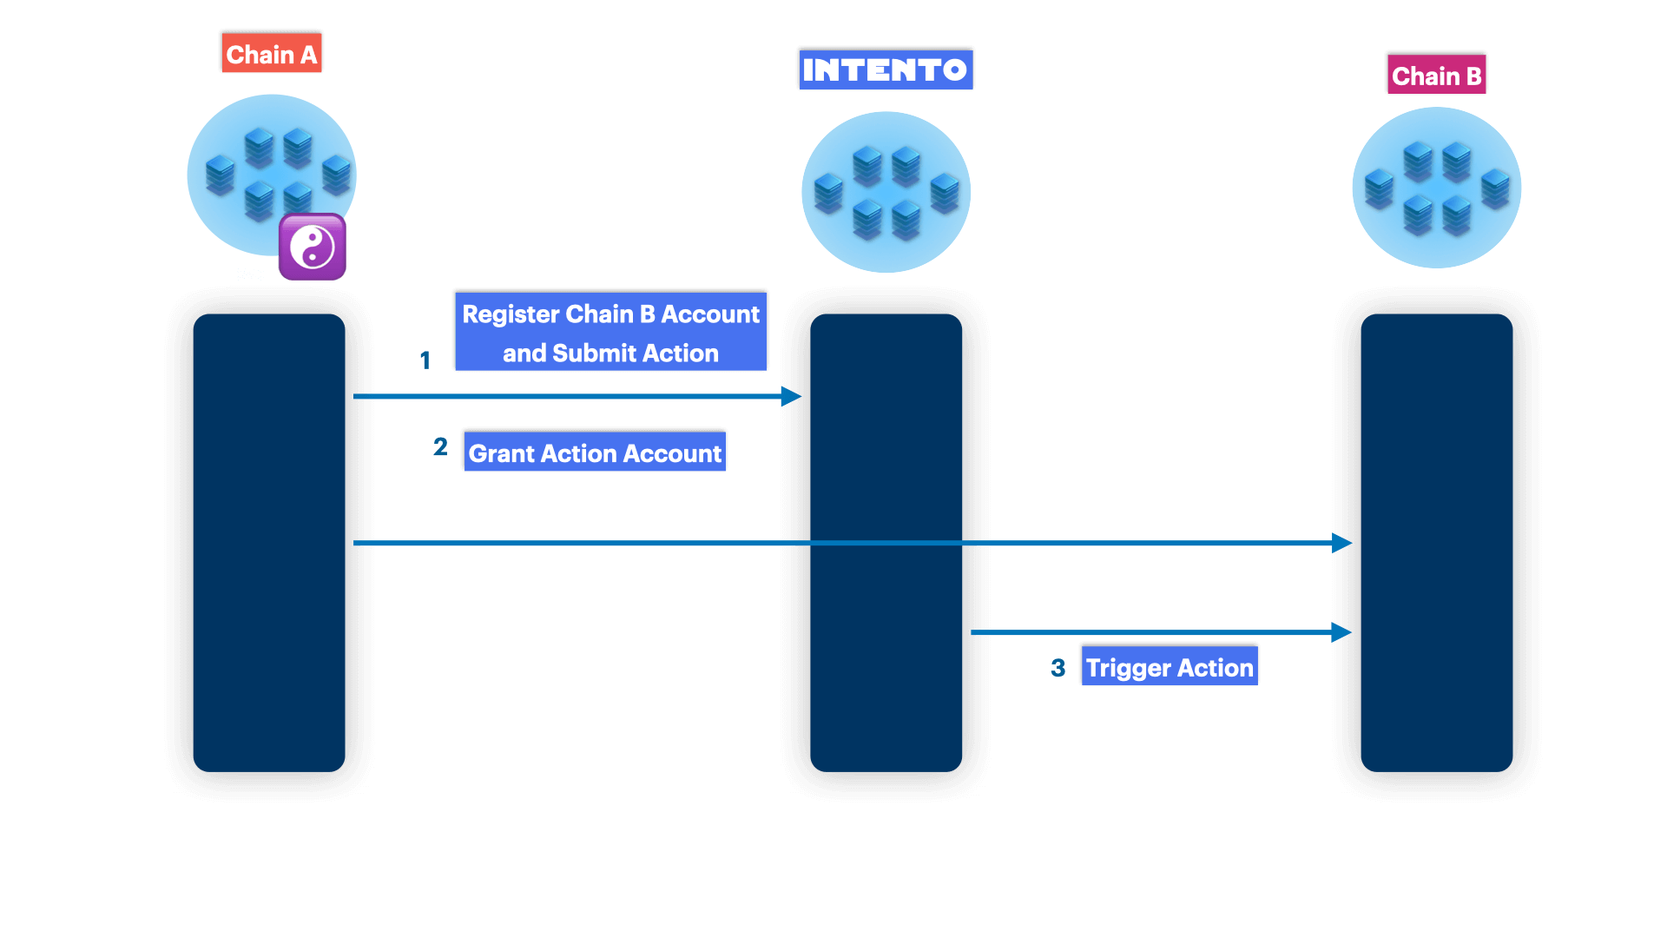
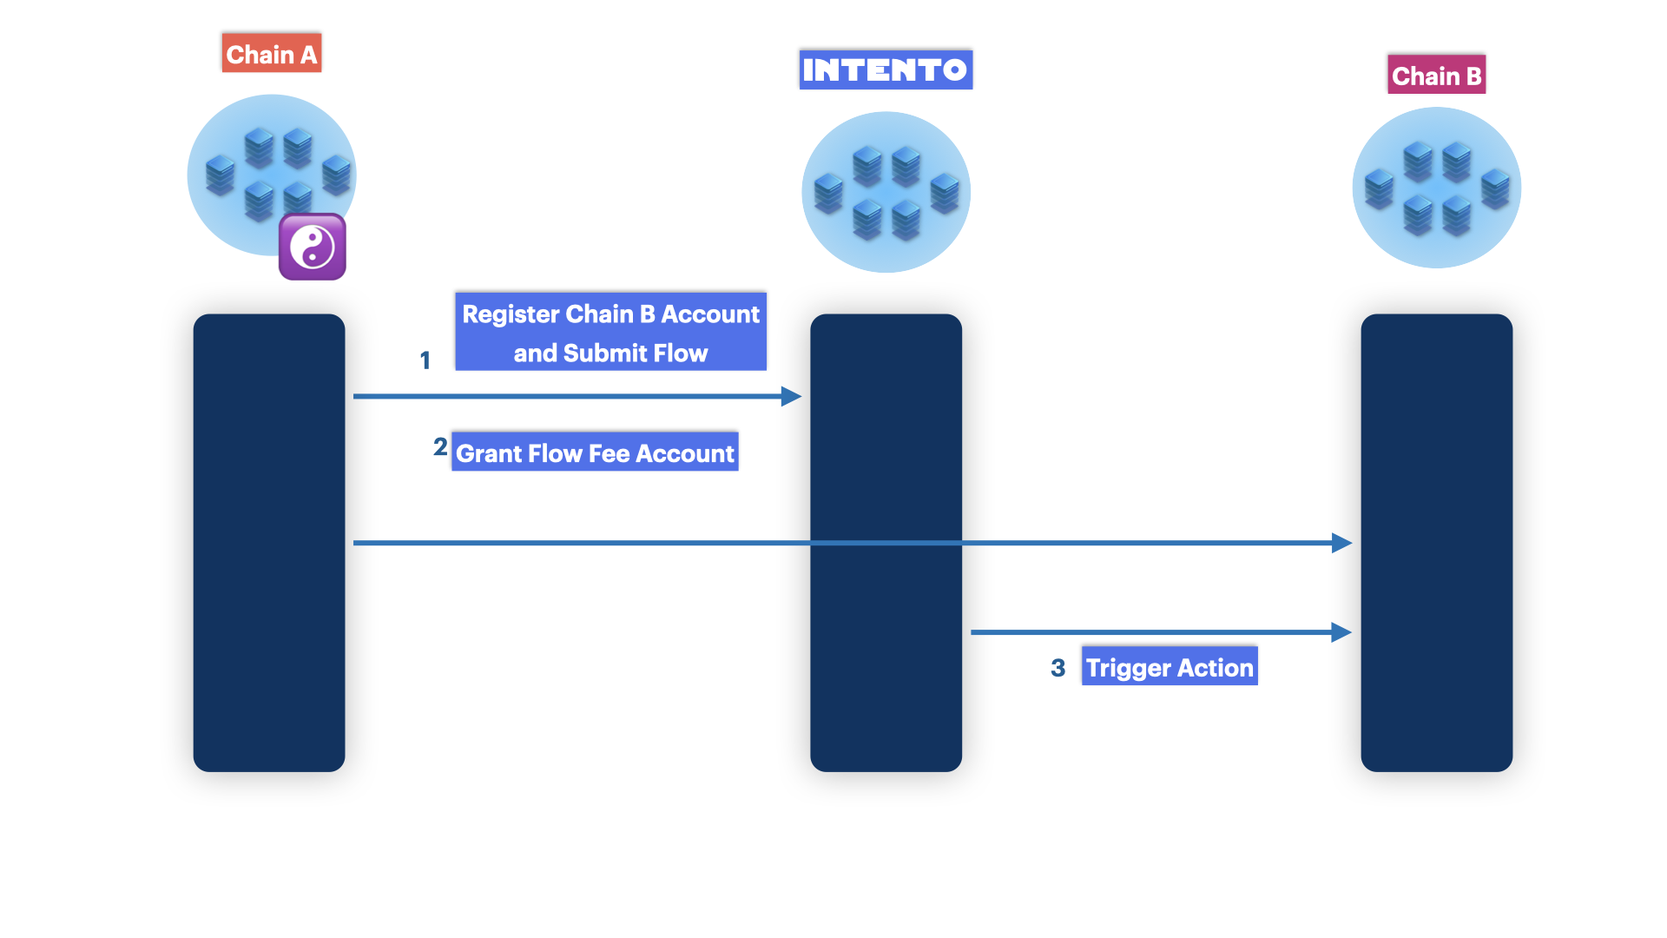
docs: update docs

diff --git a/docs/docs/using-flows/from-connected-chain.md b/docs/docs/using-flows/from-connected-chain.md
@@ -25,7 +25,7 @@ This is useful for DAOs and other decentralized organizations on any connected c
 
 ## For DAOs
 
-Setting up an flow on a connected chain can be particularly useful for DAOs. Using this middleware, DAOs can now automate tasks not only on their chain but also on any chain connected to Intento. What can DAO's do with this? DAOs can automate periodic token swaps, payroll, payment in installments amongst other scheduled flows. These flows can be performed in one proposal, which normally require periodically voting on individual proposals. This normally requires manual flow from the proposer and DAO participants.
+Setting up an flow on a connected chain can be particularly useful for DAOs. Using this middleware, DAOs can now automate tasks not only on their chain but also on any chain connected to Intento. What can DAO's do with this? DAOs can orchestrate periodic token swaps, payroll, payment in installments amongst other scheduled flows. These flows can be performed in one proposal, which normally require periodically voting on individual proposals. This normally requires manual flow from the proposer and DAO participants.
 
 ## ICS20 Middleware
 
@@ -110,66 +110,74 @@ An ICS20 packet is formatted correctly for submitting an flow if the following a
 - `memo["flow"]["cid"]`is a valid connection ID on INTO -> Destination chain, omit it for local INTO execution of the message.
 - `memo["flow"]["register_ica"]` can be added, and true to register an ICA.
 
-Fees are paid with a newly generated and flow specific fee account.
+Fees are paid with a newly generated flow fee account.
 
 If an ICS20 packet does not contain a memo containing "flow", a regular MsgTransfer takes place.
 If an ICS20 packet is directed towards flow, and is formated incorrectly, then it returns an error.
+Here’s an improved version of the example with clearer language, structure, and formatting:
+
+---
 
 ## Example: DAO Integration
 
-![icsdao](@site/docs/images/connected_chain/from_connected_chain_flow1.png)
+![ICS DAO](@site/docs/images/connected_chain/from_connected_chain_flow1.png)
 
-Using ICS20 to set up flows is for advanced users that are familiar with terms such as ICS20 transfers and Authz permissions.
+### Overview
 
-Our ICS20 middleware is developped to allow DAOs to perform time-based flows. These can be executed locally on Intento, a destination chain which can also be the source chain.
+Using ICS20 to set up Intent-based flows is for users familiar with ICS20 transfers and Authz permissions. Our ICS20 middleware is designed to allow DAOs to submit flows, which can be done locally on Intento or on a destination chain. This can also be the source chain.
 
-There are several caveats to using ICS20 to set up an flow. When automating on a destination chain for the first time, not one but two flows is required to activate the trigger. One flow is to set the flow and create an Interchain Account at Intento and another is to set permissions/send funds to the Interchain Account on the destination chain.
+There are several caveats when setting up flows with ICS20. When automating on a destination chain for the first time, **two messages** are required to activate the flow. One flow sets up the flow and creates an Interchain Account on Intento, while the other sets permissions and sends funds to the Interchain Account on the destination chain.
 
-To demonstrate how DAOs can integrate with Intento we explain the process using an example.
+In this example, we will demonstrate how a DAO can integrate with Intento by automating the payment process to a service provider.
 
-`DAO` wants to pay `Service provider ABC` for their services that they provide on a monthly basis in `TOKEN1` and holds `TOKEN2` and `NTRN`.
+### Scenario: DAO Payment to Service Provider
 
-_Service provider ABC invoice example_
-![DAODAO](@site/docs/images/ics20/daodao_proposal1.png)
+The `DAO` wishes to pay `Service Provider ABC` monthly for their services in `TOKEN1`. The DAO holds `TOKEN2` and `NTRN`.
 
-In this example a `DAO` on DAODAO triggers a swap of TOKEN2 for TOKEN1 on dex "DEX" on a recurring basis.
-Then it can automatically send these tokens to `Service provider ABC`.
-This is a neat use case for Intento as it requires movement from assets between chains and accounts. The tokens to send can remain in control of the DAO.
-As flow triggers are on-chain, the process can be done completely without trusted third parties.
+_Service Provider ABC invoice example_
 
-The DAO can appoint an owner that can manage the flow or use a placeholder account on Intento to remain in full control.
+![DAODAO](@site/docs/images/connected_chain/daodao_proposal1.png)
 
-For this invoice example we have the following proposal name and description:
+In this case, the DAO triggers a recurring swap of `TOKEN2` for `TOKEN1` on the decentralized exchange "DEX" and automatically sends the tokens to `Service Provider ABC`. 
 
-_Example Proposal name_
+This setup is an ideal use case for Intento, as it involves asset movement between chains and accounts, while the DAO maintains control of the tokens. Since the flows are on-chain, the process is fully decentralized and does not require third-party trust.
 
-```md
-[Trigger] Pay service provider ABC in TOKEN1
-```
+The DAO can appoint an owner to manage the flow or use a placeholder account on Intento to remain in full control.
 
-#### Example Description
+### Proposal Details
+
+In this example, the DAO submits a proposal with the following name and description:
+
+**Proposal Name**:
 
 ```md
-Submit an flow to send TOKEN1 to "service provider ABC"
-
-This will swap on a recurring basis TOKEN2 for TOKEN1 on dex "DEX" on Destination Chain and send these tokens to "service provider ABC"
-This will swap TOKEN1 for TOKEN2 on a recurring basis so that:
-
-- the selling pressure on TOKEN2 is gradual
-- we maintain a positive cash flow
-
-This Trigger on Intento allows us to automate asset workflows. It allows our DAO to maintain positive cashflow and have better liquidity.
+[Trigger] Pay Service Provider ABC in TOKEN1
 ```
 
-Having adequate liquidity is crucial to ensure smooth operations and financial stability. It enables you to fulfill your financial obligations to suppliers, lenders, and other stakeholders, which strengthens your credibility and reputation in the marketplace. With sufficient liquidity, you can easily pay for bills and expenses, invest in growth opportunities, and effectively manage your DAO's resources. Thus, prioritizing and managing liquidity effectively can help you achieve long-term success and sustainable growth.
+**Proposal Description**:
 
-### 1. Submitting Flow
+```md
+Submit a flow to send TOKEN1 to "Service Provider ABC."
 
-![icsdao](@site/docs/images/connected_chain/from_connected_chain_flow2.png)
+This flow will swap TOKEN2 for TOKEN1 on DEX "DEX" on the Destination Chain and automatically send these tokens to "Service Provider ABC." By performing this swap on a recurring basis, we achieve:
 
-Submit a proposal with a custom message to execute. For a CosmWasm-based DAO like [DAO DAO](https://daodao.zone/) DAOs on Neutron, This message contains the ICS20 message`MsgTransfer`. In the `memo` you provide the `Flow` details such as the messages to automate, time parameters and set a custom label.
+- Gradual selling pressure on TOKEN2
+- Maintaining positive cash flow
 
-Below is how the proposal flow message could look like for a CosmWasm-based DAO:
+This trigger on Intento automates asset workflows, ensuring liquidity and financial stability for the DAO.
+```
+
+Having sufficient liquidity ensures smooth operations and financial stability, allowing the DAO to meet its obligations and grow sustainably. Proper liquidity management helps to pay expenses, invest in growth, and strengthen the DAO's reputation in the market.
+
+---
+
+### 1. Submitting the Flow
+
+![ICS DAO Flow Submission](@site/docs/images/connected_chain/from_connected_chain_flow2.png)
+
+To submit the flow, the DAO creates a proposal with a custom message to execute. For a CosmWasm-based DAO like [DAO DAO](https://daodao.zone/) on Neutron, this message contains the ICS20 `MsgTransfer`. In the `memo`, the DAO provides flow details such as automated messages, time parameters, and a custom label.
+
+Here’s an example of how the flow proposal message might look for a CosmWasm-based DAO:
 
 ```json
 [
@@ -179,41 +187,24 @@ Below is how the proposal flow message could look like for a CosmWasm-based DAO:
       "value": {
         "source_port": "transfer",
         "source_channel": "channel-to-intento",
-        //token should be IBC-denominated INTO, which is used to pay for fees
         "token": { "denom": "ibc/....", "amount": "10" },
-        // sender - a bech32 address on source chain
         "sender": "neutron1validbech32address",
-        // the recipient address on Intento
-        // is replaced with a newly generated address when flow["owner"] in memo is blank
         "receiver": "into1address",
-        // Timeout height relative to the current block height.
-        // The timeout is disabled when set to 0.
         "timeout_height": "0",
-        // Timeout timestamp in absolute nanoseconds since unix epoch.
-        // The timeout is disabled when set to 0.
         "timeout_timestamp": "0",
         "memo": {
           "flow": {
-            //owner is optional and should equal recipient
             "owner": "into1address",
             "msgs": [
               {
                 "@type": "/someprefix.somemodule.someversion.sometype"
-                //add message values
-                //in JSON format
               }
             ],
-            //duration from now or from start_at. s=seconds, m=minutes, h=hours
             "duration": "111h",
-            //interval is optional. s=seconds, m=minutes, h=hours
             "interval": "11h",
-            //start_at is optional, in nanoseconds since UNIX epoch
             "start_at": "1677841601",
-            //label is optional
             "label": "my_label",
-            //connection_id is optional, omit or leave blank in case local Intento message.
             "cid": "connection-0",
-            //register_ica is optional, set to true to register interchain account
             "register_ica": "true"
           }
         }
@@ -223,11 +214,12 @@ Below is how the proposal flow message could look like for a CosmWasm-based DAO:
 ]
 ```
 
-Here it is important that the `timeout_timestamp` or `timeout_height` takes into account the proposal's end time. Alternatively both of the timeout values can be set to `0`.
+**Important Notes:**
 
-Further it is important that the field `register_ica` is set to `"true"` the first time you create an flow. This will register an Interchain Account from Intento on the destination chain.
-
-A message in the `flow["msgs"]` array can be like the following MsgSend:
+- Ensure that `timeout_timestamp` or `timeout_height` reflects the proposal's end time, or set both to `0` if no timeout is needed.
+- When creating the flow for the first time, make sure the `register_ica` field is set to `"true"`, which registers an Interchain Account on the destination chain.
+  
+A message within the `flow["msgs"]` array might look like this `MsgSend`:
 
 ```json
 {
@@ -243,7 +235,7 @@ A message in the `flow["msgs"]` array can be like the following MsgSend:
 }
 ```
 
-For the DAO service provider example, we can have a [SwapAndSendTo](https://github.com/Wasmswap/wasmswap-contracts/blob/main/src/msg.rs#:~:text=%7D%2C-,SwapAndSendTo,-%7B) in a [MsgExecuteContract](https://github.com/CosmWasm/wasmd/blob/main/proto/cosmwasm/wasm/v1/tx.proto) message to swap TOKEN2 for TOKEN1 locally on `Neutron`. We can specify the out recipient the recipient's address.
+Alternatively, the DAO can use a custom smart contract message like [SwapAndSendTo](https://github.com/Wasmswap/wasmswap-contracts/blob/main/src/msg.rs#:~:text=%7D%2C-,SwapAndSendTo,-%7B) in a [MsgExecuteContract](https://github.com/CosmWasm/wasmd/blob/main/proto/cosmwasm/wasm/v1/tx.proto) message to swap `TOKEN2` for `TOKEN1`.
 
 ```json
 {
@@ -263,98 +255,42 @@ For the DAO service provider example, we can have a [SwapAndSendTo](https://gith
       "funds": []
     }
   ],
-  "grantee": "ICA_ADDR" 
+  "grantee": "ICA_ADDR"
 }
 ```
 
-:::tip write `ICA_ADDR` as a `grantee` or any other field in the message and Intento will parse the to-be defined Interchain Account address. This is transformed when the first execution happens.
+:::tip 
+Write `ICA_ADDR` as a `grantee` or in other fields within the message, and Intento will parse the to-be-defined Interchain Account address.
 :::
 
-We can also perform [MsgSwapExactAmountOut](https://github.com/osmosis-labs/osmosis/blob/main/proto/osmosis/gamm/v1beta1/tx.proto#:~:text=message-,MsgSwapExactAmountOut,-%7B) to `Osmosis` or `Dymension` given that there are funds on the DAO's Intento-Osmosis Interchain Account on Osmosis. To send funds for execution, the DAO can make a proposal for `MsgTransfer` that funds the Intento Interchain Account. The DAO then controls an flow on Intento that controls the swap.
+You can also use [MsgSwapExactAmountOut](https://github.com/osmosis-labs/osmosis/blob/main/proto/osmosis/gamm/v1beta1/tx.proto#:~:text=message-,MsgSwapExactAmountOut,-%7B) to swap tokens on decentralized exchanges like Osmosis or Dymension.
+
+---
 
 ### 2. Setting Up Permissions and Funds
 
-![example2](@site/docs/images/connected_chain/from_connected_chain_flow3.png)
+![ICS DAO Permissions](@site/docs/images/connected_chain/from_connected_chain_flow3.png)
 
-<!-- ![proposal2](@site/docs/images/ics20/daodao_proposal2.png)
-*Proposal 2 can be the following and should contain the ICA_ADDR, which can found by querying the interchain account address.*  -->
+The Interchain Account (ICA) must be properly funded and authorized before it can execute the flow.
 
-The ICA_ADDR should also have some [funds to execute](#paying-for-fees) and have the proper [permissions](#setting-permissions) set up
+#### Paying for Fees
 
-:::tip write ICA_ADDR as a `sender` or any other field in an flow and Intento will parse the to-be defined Interchain Account address.
+Flow fees on Intento are automatically paid from the funds sent via ICS20. For flows executed on the destination chain, the `Flow Account` on the destination chain should be funded with the destination chain's fee token.
+
+If needed, a separate proposal can be submitted to send tokens (via `MsgSend` or `MsgTransfer`) to the destination chain's ICA address.
+
+:::tip
+If the source and destination chains are the same, you can set up a FeeGrant for the ICA on the destination chain.
 :::
 
-#### Paying for fees
+#### Setting Permissions
 
-Flow fees on Intento are paid from the funds sent in the ICS20 message, so that you do not need to worry about it.
+For flows on Cosmos chains, set up an AuthZ grant using `MsgGrant`. For EVM chains, you can give the flow account `allowance` for ERC20 tokens or `approval` for NFTs.
 
-**Flow on Intento**
+Once funds and permissions are set up, only one flow proposal is required to trigger the flow.
 
-If you want to execute flows locally on Intento, the funds sent with the ICS20 transfer will be used to pay for fees.
-
-**With execution over IBC**
-
-To execute flows on the `destination chain`, the `Flow Account` on the destination chain should be funded with `destination chain`'s fee token.
-The flow can be funded by sending tokens to the account on `destination chain` before the first trigger. <!-- Fees can  granting the ICA to use fees from another account using a Feegrant. -->
-
-Alternatively, you can submit an additional proposal to send tokens ( `MsgSend` or `MsgTransfer`) to `destination_chain` with the `destination_chain_ica_address` as the receiver.
-For this, a message needs to be sent.
-
-<!-- 
-Here's an example:
-
-```json
-[
-  {
-    "stargate": {
-      "typeUrl": "/ibc.applications.transfer.v1.MsgTransfer",
-      "value": {
-        "source_port": "transfer",
-        "source_channel": "channel_source_chain__destination_chain",
-        "token": { "denom": "ibc/....", "amount": "10" },
-        "sender": "dao_address",
-        "receiver": "destination_chain_ica_address",
-        "timeout_height": "0",
-        "timeout_timestamp": "0",
-        "cid": "connection-0123"
-      }
-    }
-  }
-]
-``` 
--->
-
-:::tip Tip: if the destination chain is the same as the source chain, the DAO can create a FeeGrant for the `destination_chain_ica_address`.
-:::
-
-#### Setting permissions
-
-If your flow is on a Cosmos chain, you can set an AuthZ grant through `MsgGrant`. If you flow is going to be on an EVM chain you can give the flow account `allowance` for an ERC20 token or `approval` in case of an NFT.
-
-<!--
-#### Setting permissions
-
-Alternatively, you can create a FeeGrant for the `destination_chain_ica_address` when the DAO is present on destination chain. You can also allow the ICA address to execute flows for the DAO using `AuthZ`. [Here](https://blog.cosmos.network/secret-powers-what-are-the-authz-and-fee-grant-modules-c57d0e808794) is an article explaining the power of both `FeeGrant` and `AuthZ`.
-
-Initiating an flow for the first time locally on Neutron can be done as follows:
-
- 1. Proposal 1 Message 1: IC20 token tranfser: Submit flow on Intento.  In the `flow` memo, `msgs` should contain AuthZ's MsgExec with `MsgExecuteContract`.
- 2. Proposal 2 Message 1: Allow the DAO's NTRN tokens to be used for fees by `destination_chain_ica_address` with a FeeGrant.
-  Proposal 2 Message 2: AuthZ grant to ICA to execute `MsgExecuteContract`.
-
- For a DAO swapping tokens on a recurring basis on Osmosis for the first time, 2 proposals should be made.
-
- 1. Proposal 1 Message 1: IC20 token tranfser: Submit flow on Intento. In the `flow` memo, `msgs` should contain AuthZ's MsgExec with `MsgSwapExactAmountOut`
- 2. Proposal 2 Message 1: Send OSMO tokens to using `MsgTransfer` to `destination_chain_ica_address`.
-  Proposal 2 Message 2: AuthZ grant to ICA to execute `MsgSwapExactAmountOut`.
-
-<!-- FeeGrant typeURL:  `/cosmos.feegrant.v1beta1.Grant`
-AuthZ typeURL: `/cosmos.authz.v1beta1.MsgGrant` -->
-
-when the funds and grants are in place from a previous flow on that particular Interchain Account only one proposal flow containing the `flow` memo has to be specified.
-
-![example4](@site/docs/images/connected_chain/from_connected_chain_flow4.png)
+---
 
 ### 3. Managing Flows
 
-On [TriggerPortal](https://triggerportal.zone/), you can create, view , update and manage your flows.
+You can manage your flows on [TriggerPortal](https://triggerportal.zone/), where you can create, view, update, and control your flows.

diff --git a/docs/docs/background/index.md b/docs/docs/background/index.md
@@ -4,7 +4,7 @@ sidebar_position: 1
 order: 1
 ---
 
-Intento is distributed and decentralized system built with the Cosmos SDK for submitting and executing intent-based actions via `Flows`. TRST Labs's extensive `Intent` Cosmos SDK module has been under development since early 2023. The module abstracts transaction complexities and offers chain-agnostic and interdependent orchestration of actions. By simplifying asset control and enabling permissionless automation of actions on connected IBC chains, this module moves value across protocols.
+Intento is distributed and decentralized system built with the Cosmos SDK for submitting and executing intent-based actions via `Flows`. TRST Labs's extensive `Intent` Cosmos SDK module has been under development since early 2023. The module abstracts transaction complexities and offers chain-agnostic and interdependent orchestration of actions. By simplifying asset control and enabling permissionless orchestration of actions on connected IBC chains, this module moves value across protocols.
 
 ## Cosmos
 
@@ -12,7 +12,7 @@ The Cosmos ecosystem is a decentralized network designed to connect various bloc
 
 ## Our Goals
 
-Our vision is to enable anyone to integrate blockchain operations in a truly seamless manner; that is, without the need for intermediary or custom smart contracts. Our intent-centric automation module aims to enable workflows where the user is in control, abstracts away transactions, enhances liquidity and accessibility, and provides novel use cases. By achieving these goals, we can revolutionize transactions, empowering users with greater control and efficiency while fostering a vibrant and differentiated ecosystem.
+Our vision is to enable anyone to integrate blockchain operations in a truly seamless manner; that is, without the need for intermediary or custom smart contracts. Our  module aims to enable workflows where the user is in control, abstracts away transactions, enhances liquidity and accessibility, and provides novel use cases. By achieving these goals, we can revolutionize transactions, empowering users with greater control and efficiency while fostering a vibrant and differentiated ecosystem.
 
 ## IBC - Inter-Blockchain Communication
 

diff --git a/docs/docs/using-flows/icq.md b/docs/docs/using-flows/icq.md
@@ -21,7 +21,7 @@ You can query various data types from the state of other chains. There are two p
 
 Once the queried data is retrieved, it can be used for [**comparisons**](./conditions.md#comparison-operators) or to establish [**feedback loops**](./conditions.md#feedback-loops). For example, if a queried balance exceeds a certain threshold, you can trigger an action to stake the excess funds. Likewise, if a validator’s status on one chain changes, you can automatically adjust delegations or governance votes on another chain.
 
-This capability unlocks numerous possibilities for cross-chain automation, simplifying multi-chain dApp logic and empowering developers to build more dynamic and responsive applications in the interchain ecosystem.
+This capability unlocks numerous possibilities for cross-chain workflows, simplifying multi-chain dApp logic and empowering developers to build more dynamic and responsive applications in the interchain ecosystem.
 
 ## Integrating ICQs
 

diff --git a/docs/docs/using-flows/TriggerPortal.md b/docs/docs/using-flows/TriggerPortal.md
@@ -4,7 +4,7 @@ title: Interacting with TriggerPortal
 pagination_label: How to set and manage actions using TriggerPortal
 ---
 
-TriggerPortal is a powerful dApp designed for developers, and integrators, offering an advanced solution for setting, viewing and updating flows with robust conditions, comparisons, and feedback loops. It streamlines automation, allowing users to define sophisticated workflows for various interactions.
+TriggerPortal is a powerful dApp designed for developers, and integrators, offering an advanced solution for setting, viewing and updating flows with robust conditions, comparisons, and feedback loops. It allows users to define sophisticated workflows for various blockchain actions.
 
 ### Key Features of TriggerPortal
 

diff --git a/docs/docs/designing-flows/index.md b/docs/docs/designing-flows/index.md
@@ -9,5 +9,5 @@ This guide is for integrators who want to leverage intent-based flows to bring e
 - **Decentralized Exchanges (DEXes):** Automate interchain trades and liquidity management (e.g., Osmosis).
 - **Wallet Providers:** Enable auto-compounding for staking rewards with conditional execution (e.g., MetaMask, Keplr, Leap).
 - **Recurring Payments:** Facilitate scheduled transactions across blockchains.
-- **Governance Automations:** Ensure proposals and votes happen at the right moment.
+- **Governance Actions:** Ensure proposals and votes happen at the right moment.
 - **Portfolio Management:** Optimize asset distribution across chains effortlessly.

diff --git a/docs/docs/background/architecture.md b/docs/docs/background/architecture.md
@@ -1,7 +1,7 @@
 ---
 sidebar_position: 1
 title: Technical overview
-description: A technical overview of the Intento blockchain, including its architecture, consensus mechanism, block structure, network topology, automation solutions, and data availability.
+description: A technical overview of the Intento blockchain, including its architecture, consensus mechanism, block structure, network topology, solutions, and data availability.
 ---
 
 

diff --git a/docs/docs/using-flows/frontend-integration.md b/docs/docs/using-flows/frontend-integration.md
@@ -100,7 +100,6 @@ export const getExpectedFlowFee = (
 };
 
 async function getFlowParams(client: IntentoChainClient) {
-  console.log("getFlowParams");
   try {
     const resp = await client.query.flow.params({});
     return resp.params;
